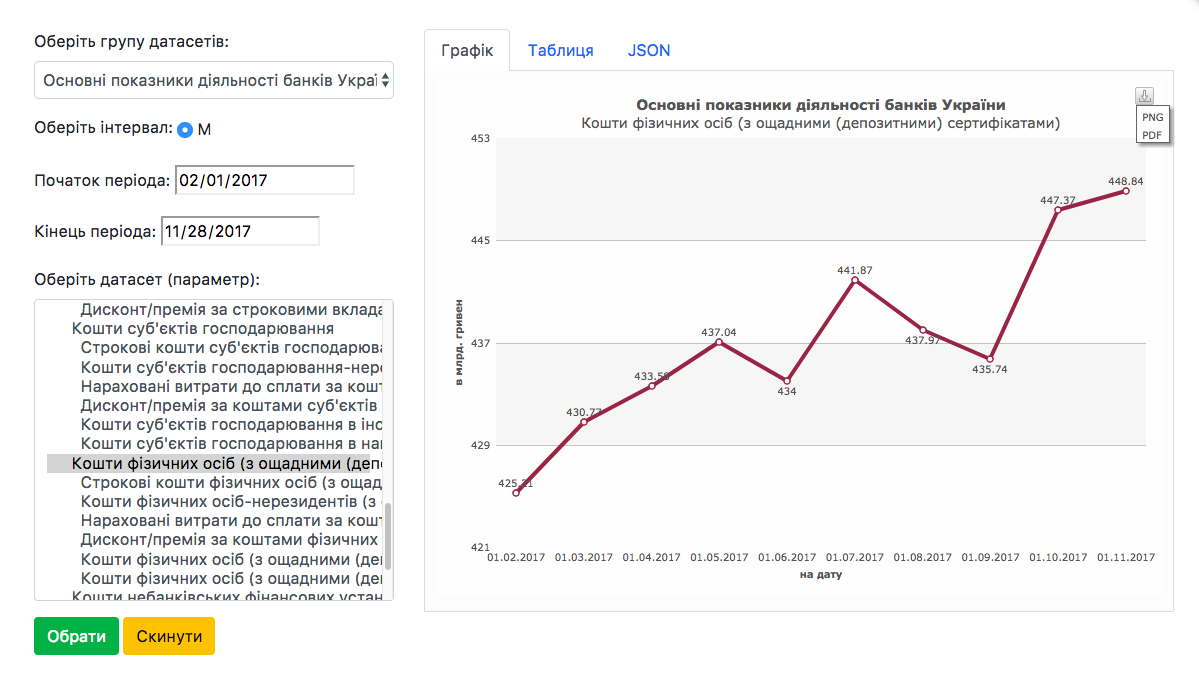
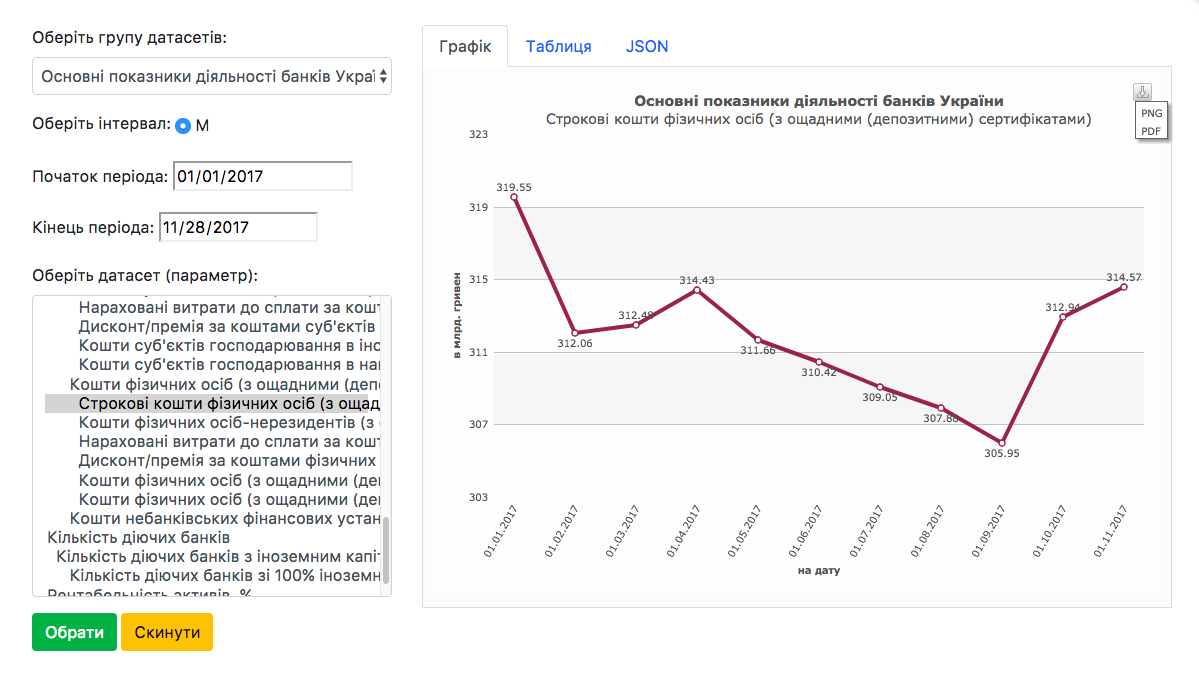
minor updates

diff --git a/opendata-explorer/index.php b/opendata-explorer/index.php
@@ -200,7 +200,7 @@ set_time_limit(0);
 
 						// Constructing other parameters taken directly from dataset with test data
 
-						$testDate = "20170701";
+						$testDate = "20171101";
 						/* 
 						start= and end= working normally instead of date=
 						so we use them just to get additional params
@@ -356,6 +356,9 @@ set_time_limit(0);
 
 							$sortArray = null;
 
+							$numItemsInSortArrayFinal = count($sortArrayFinal);
+							if ($numItemsInSortArrayFinal>10) { $labelDisplay = 'rotate'; } else { $labelDisplay = 'wrap'; }
+
 						foreach ($sortArrayFinal as $key => $value) {
 							
 							$floatMoney = floatval(($value->value)/1000);
@@ -421,7 +424,9 @@ set_time_limit(0);
 		                    "legendShadow": "0",
 		                    "legendItemFontSize": "10",
 		                    "legendItemFontColor": "#666666",
-		                    "useDataPlotColorForLabels": "1",
+		                    "useDataPlotColorForLabels": "1",  
+		                	"labelDisplay": "' . $labelDisplay . '",
+		                	"slantLabels": "1",
 		                    "exportEnabled": "1",
 		                    "exportMode": "auto",
 		                    "exportShowMenuItem": "1",
@@ -460,7 +465,8 @@ set_time_limit(0);
 					  <div class="tab-pane" id="profile" role="tabpanel" aria-labelledby="profile-tab">
 				';
 
-
+						echo "<h5>" . $dataGroupName . "</h5>";
+						echo "<h6>" . $sortArrayFinal[0]->txt . "</h6>";
 
 						echo "<table class=\"table\">";
 

diff --git a/opendata-explorer/try.php b/opendata-explorer/try.php
@@ -1,11 +1,11 @@
 <?php
 
-						$testDate = "20170701";
+						$testDate = "20171101";
 						/* 
 						start= and end= working normally instead of date=
 						so we use them just to get additional params
 						*/
-						$otherParametersUrl = "https://bank.gov.ua/NBUStatService/v1/statdirectory/monetary?" . 
+						$otherParametersUrl = "https://bank.gov.ua/NBUStatService/v1/statdirectory/liquidity?" . 
 											  "start=" . 
 											  $testDate . "&end=" . 
 											  $testDate ."&json";

diff --git a/opendata-explorer/README.md b/opendata-explorer/README.md
@@ -43,9 +43,11 @@ ___________________
 
 ![Alt text](/opendata-explorer/ss/02.png?raw=true "Валовий зовнішній борг - Усього")
 
-![Alt text](/opendata-explorer/ss/03.png?raw=true "Основні показники діяльності банків - Кредити, що надані фізичним особам - Графік")
+![Alt text](/opendata-explorer/ss/03.png?raw=true "Основні показники діяльності банків - Строкові кошти фізичних осіб (з ощадними (депозитними) сертифікатами) - Графік")
 
-![Alt text](/opendata-explorer/ss/04.png?raw=true "Основні показники діяльності банків - Кредити, що надані фізичним особам - Табличний вигляд")
+![Alt text](/opendata-explorer/ss/04.png?raw=true "Основні показники діяльності банків - Строкові кошти фізичних осіб (з ощадними (депозитними) сертифікатами) - Табличний вигляд")
+
+![Alt text](/opendata-explorer/ss/04.png?raw=true "Лiквiднiсть - Рефiнансування банкiв")
 
 ___________________
 
